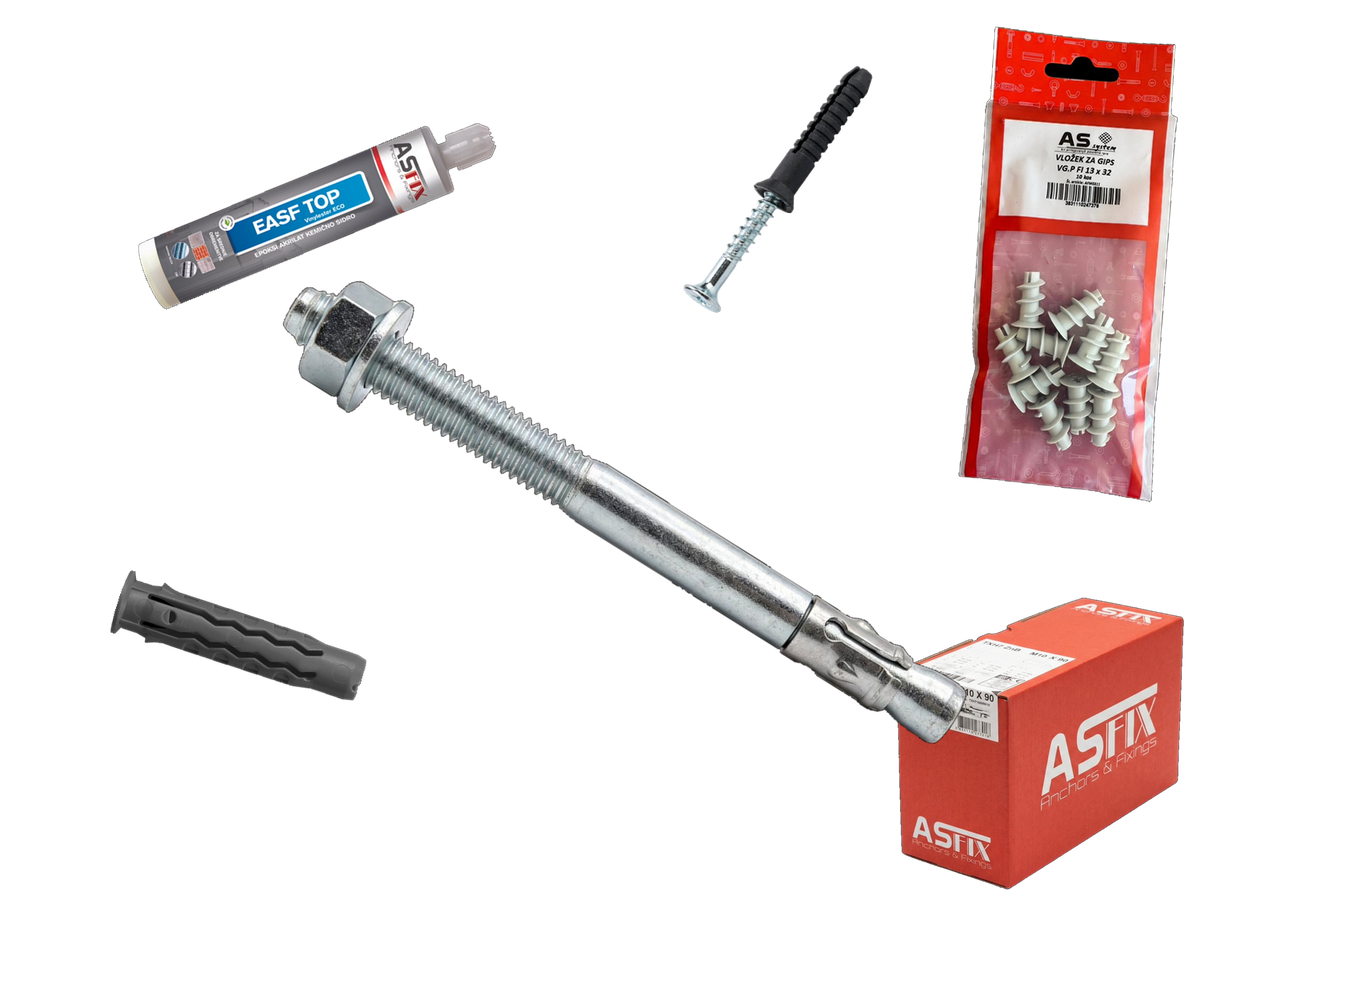
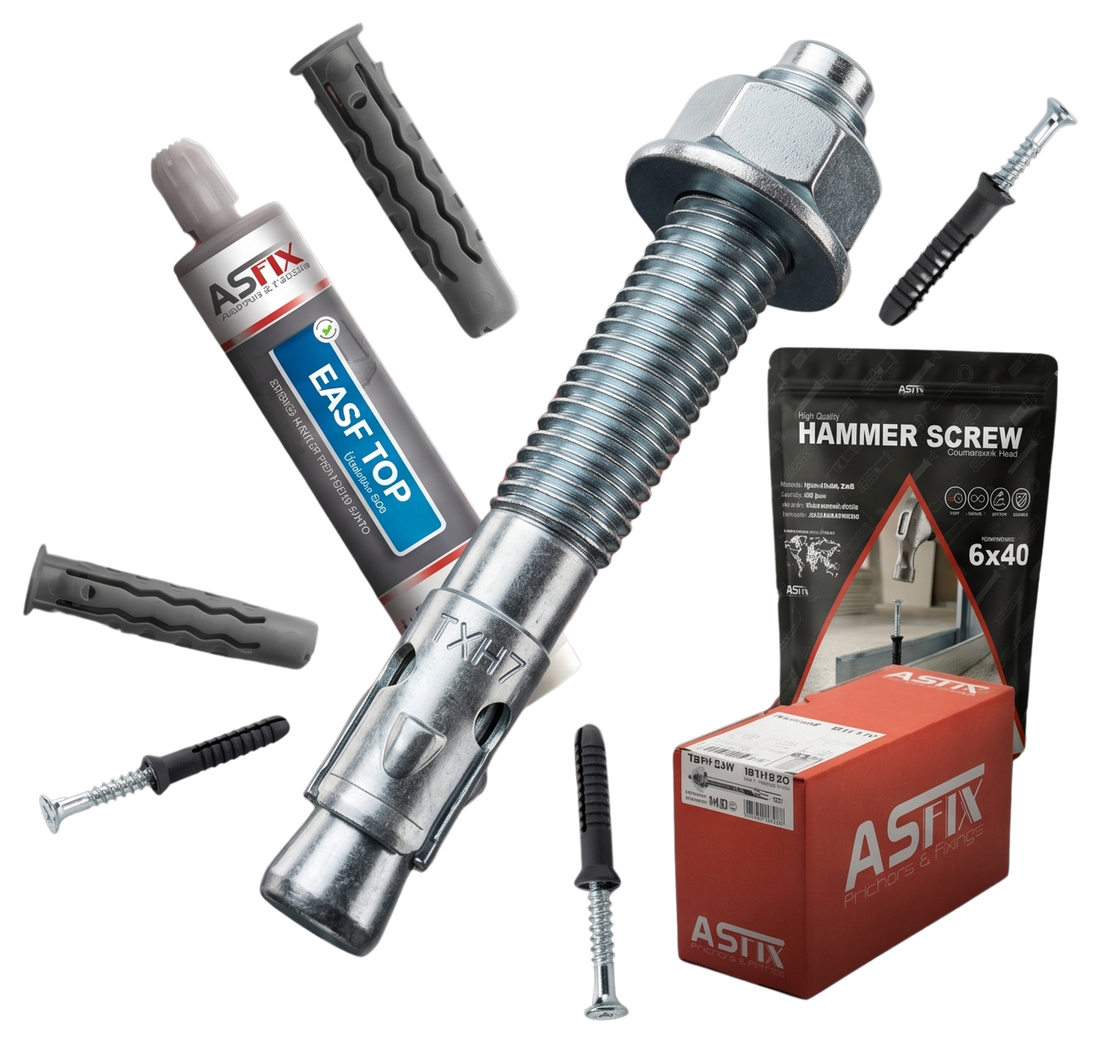
Zamenjam hero sliko z uradno kompozicijo izdelkov

diff --git a/app/page.js b/app/page.js
@@ -102,9 +102,9 @@ export default async function Domov() {
           <div className="hero-im">
             <Image
               src="/hero-izdelki.png"
-              alt="Pritrdila ASfix — jeklena sidra, zidni vložki, kemično sidro, vrečka in škatla"
-              width={1360}
-              height={1000}
+              alt="Pritrdila ASfix — jekleno sidro TXH7, zidni vložki, kemično sidro EASF TOP, udarni vijaki, vrečka in škatla"
+              width={1100}
+              height={1044}
               priority
               sizes="(max-width: 1000px) 100vw, 640px"
               style={{ width: "100%", height: "auto" }}
